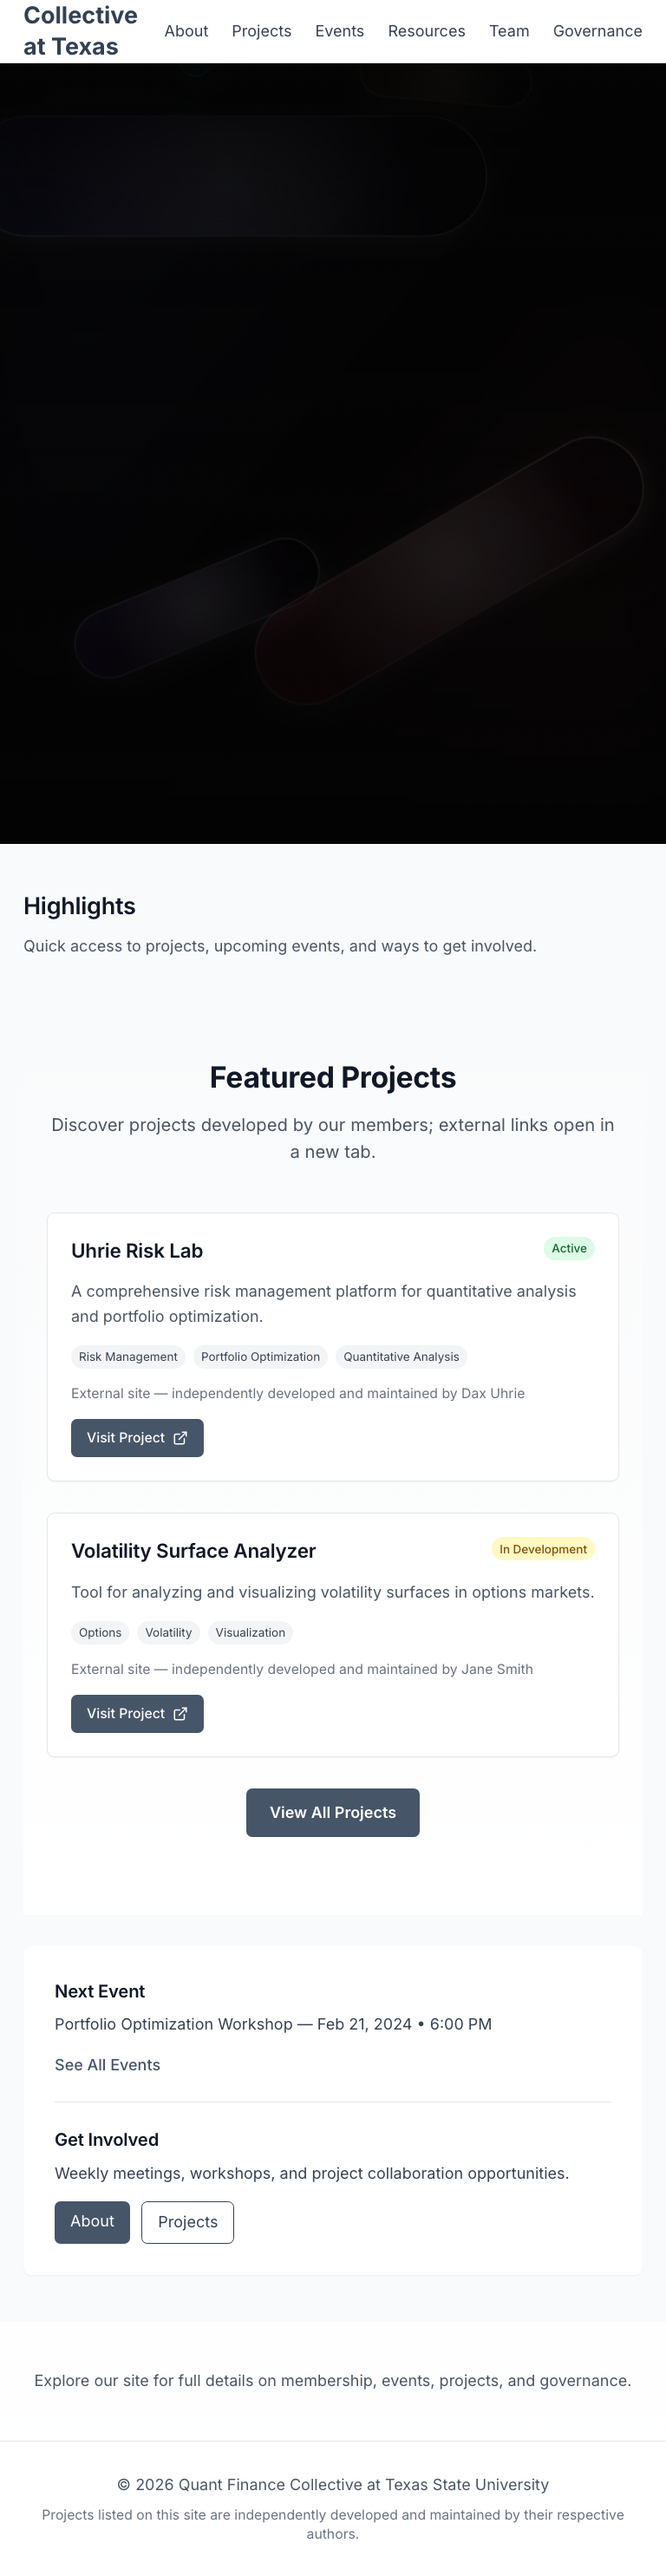
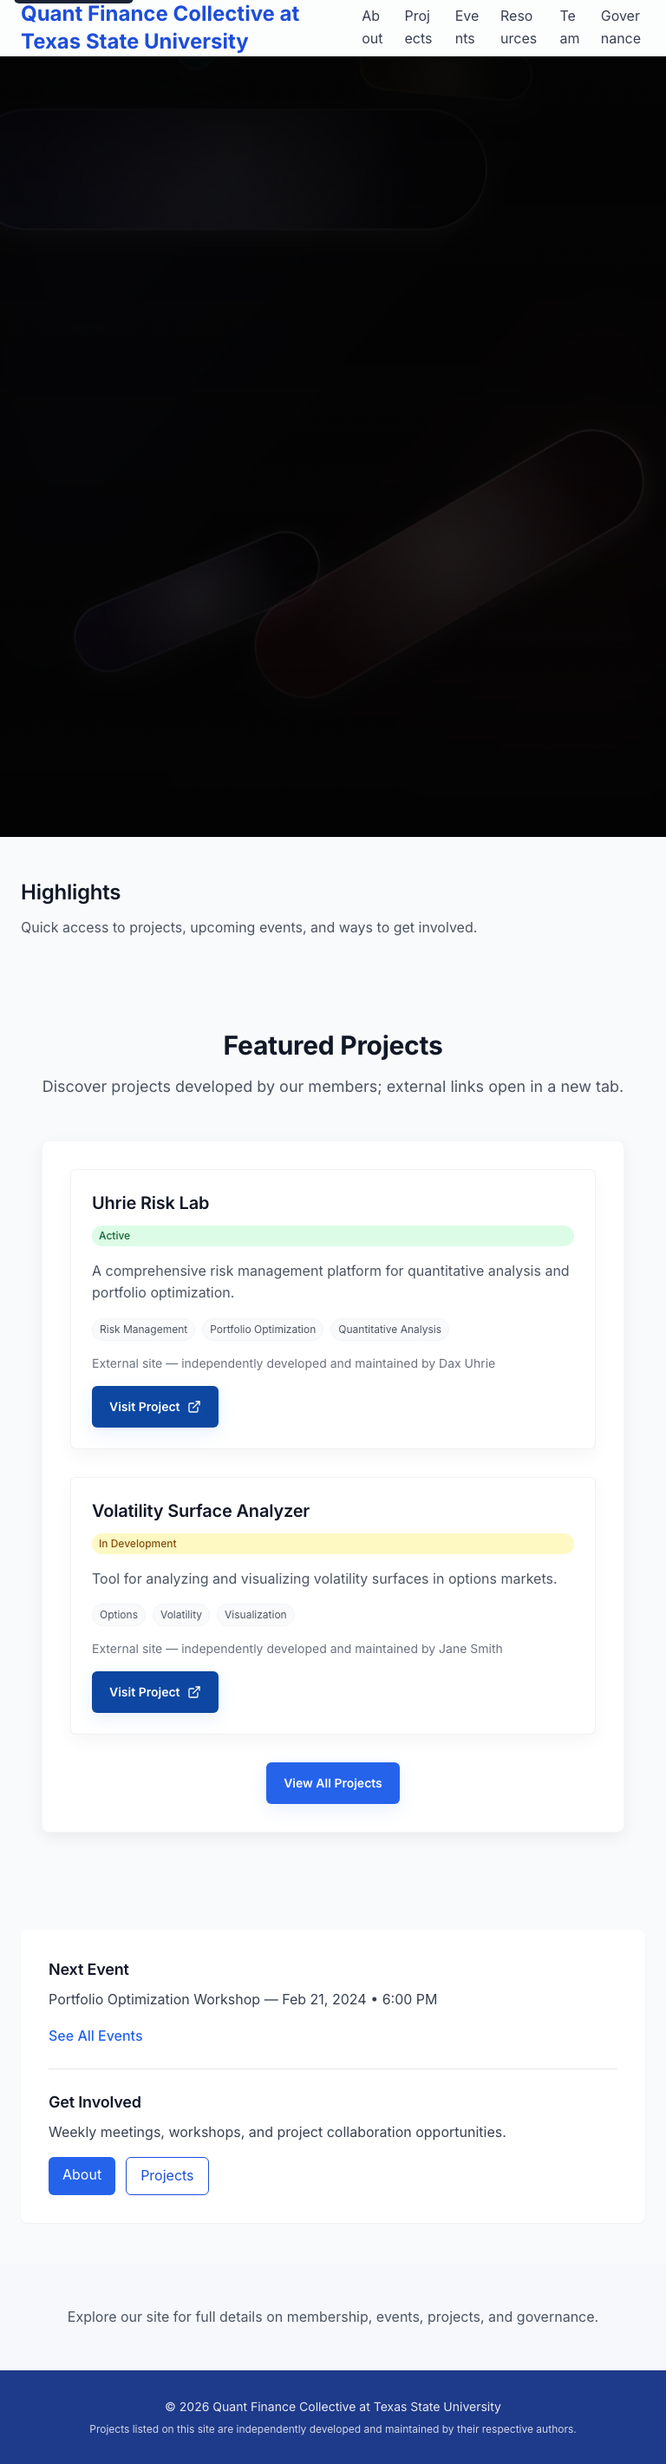
fix(ui): prevent aggressive word breaks and normalize h1 letter-spacing; add style inspection script

diff --git a/scripts/inspect-styles.js b/scripts/inspect-styles.js
@@ -1,0 +1,32 @@
+const { chromium } = require('playwright');
+(async () => {
+  const browser = await chromium.launch();
+  const page = await browser.newPage();
+  await page.goto('http://localhost:3000');
+  const info = await page.evaluate(() => {
+    const getStyle = (el) => {
+      if (!el) return null;
+      const cs = getComputedStyle(el);
+      return {
+        tag: el.tagName,
+        writingMode: cs.getPropertyValue('writing-mode'),
+        whiteSpace: cs.getPropertyValue('white-space'),
+        wordBreak: cs.getPropertyValue('word-break'),
+        overflowWrap: cs.getPropertyValue('overflow-wrap'),
+        letterSpacing: cs.getPropertyValue('letter-spacing'),
+        width: el.clientWidth,
+        display: cs.getPropertyValue('display')
+      };
+    };
+    return {
+      html: getStyle(document.documentElement),
+      body: getStyle(document.body),
+      main: getStyle(document.querySelector('main')),
+      nav: getStyle(document.querySelector('nav')),
+      hero: getStyle(document.querySelector('.hero-panel')),
+      firstHeading: getStyle(document.querySelector('h1'))
+    };
+  });
+  console.log(JSON.stringify(info, null, 2));
+  await browser.close();
+})();

diff --git a/src/app/globals.css b/src/app/globals.css
@@ -135,4 +135,22 @@ a:not(.no-btn):hover {
     border-radius: calc(var(--card-radius) + 4px);
     box-shadow: 0 20px 60px rgba(2,6,23,0.12);
   }
+
+  /* prevent text overflow while avoiding excessive single-letter wrapping */
+  p, li, h1, h2, h3, h4, a {
+    /* prefer breaking at word boundaries; 'anywhere' covers long words but avoids aggressive letter breaks */
+    overflow-wrap: anywhere;
+    word-break: normal;
+    hyphens: auto;
+  }
+
+  /* enforce reasonable tracking for headings to avoid extremely tight negative letter-spacing */
+  h1, h2, h3, h4 {
+    letter-spacing: -0.01em !important;
+  }
+
+  img, video, iframe {
+    max-width: 100%;
+    height: auto;
+  }
 }
